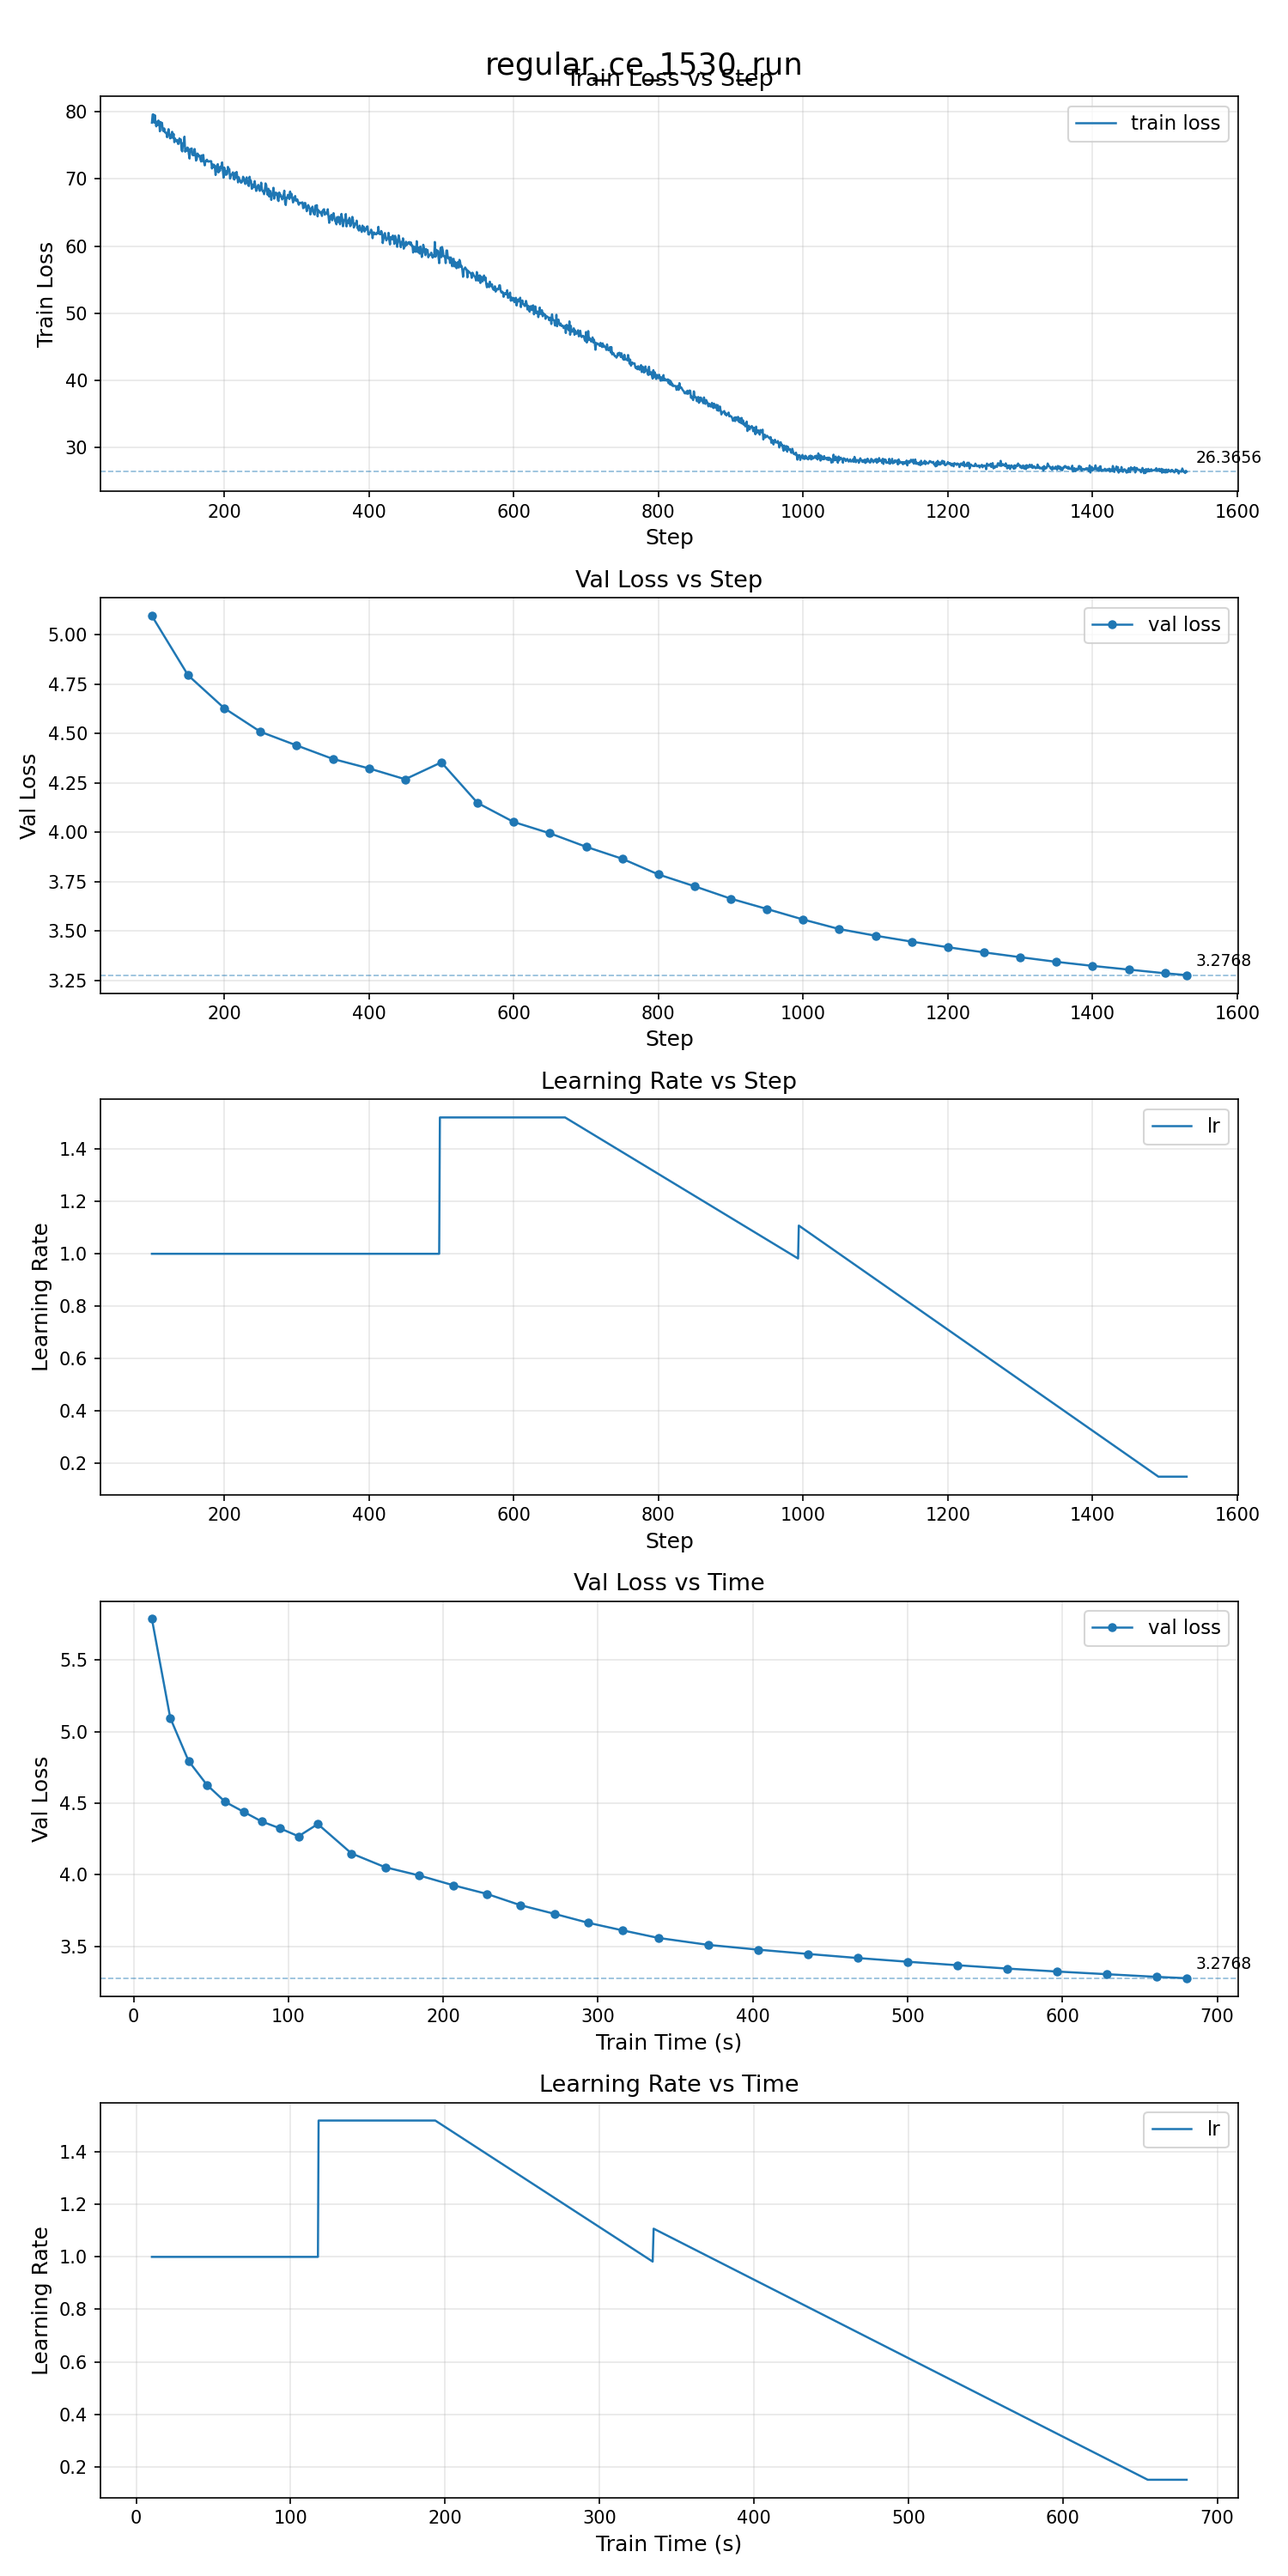
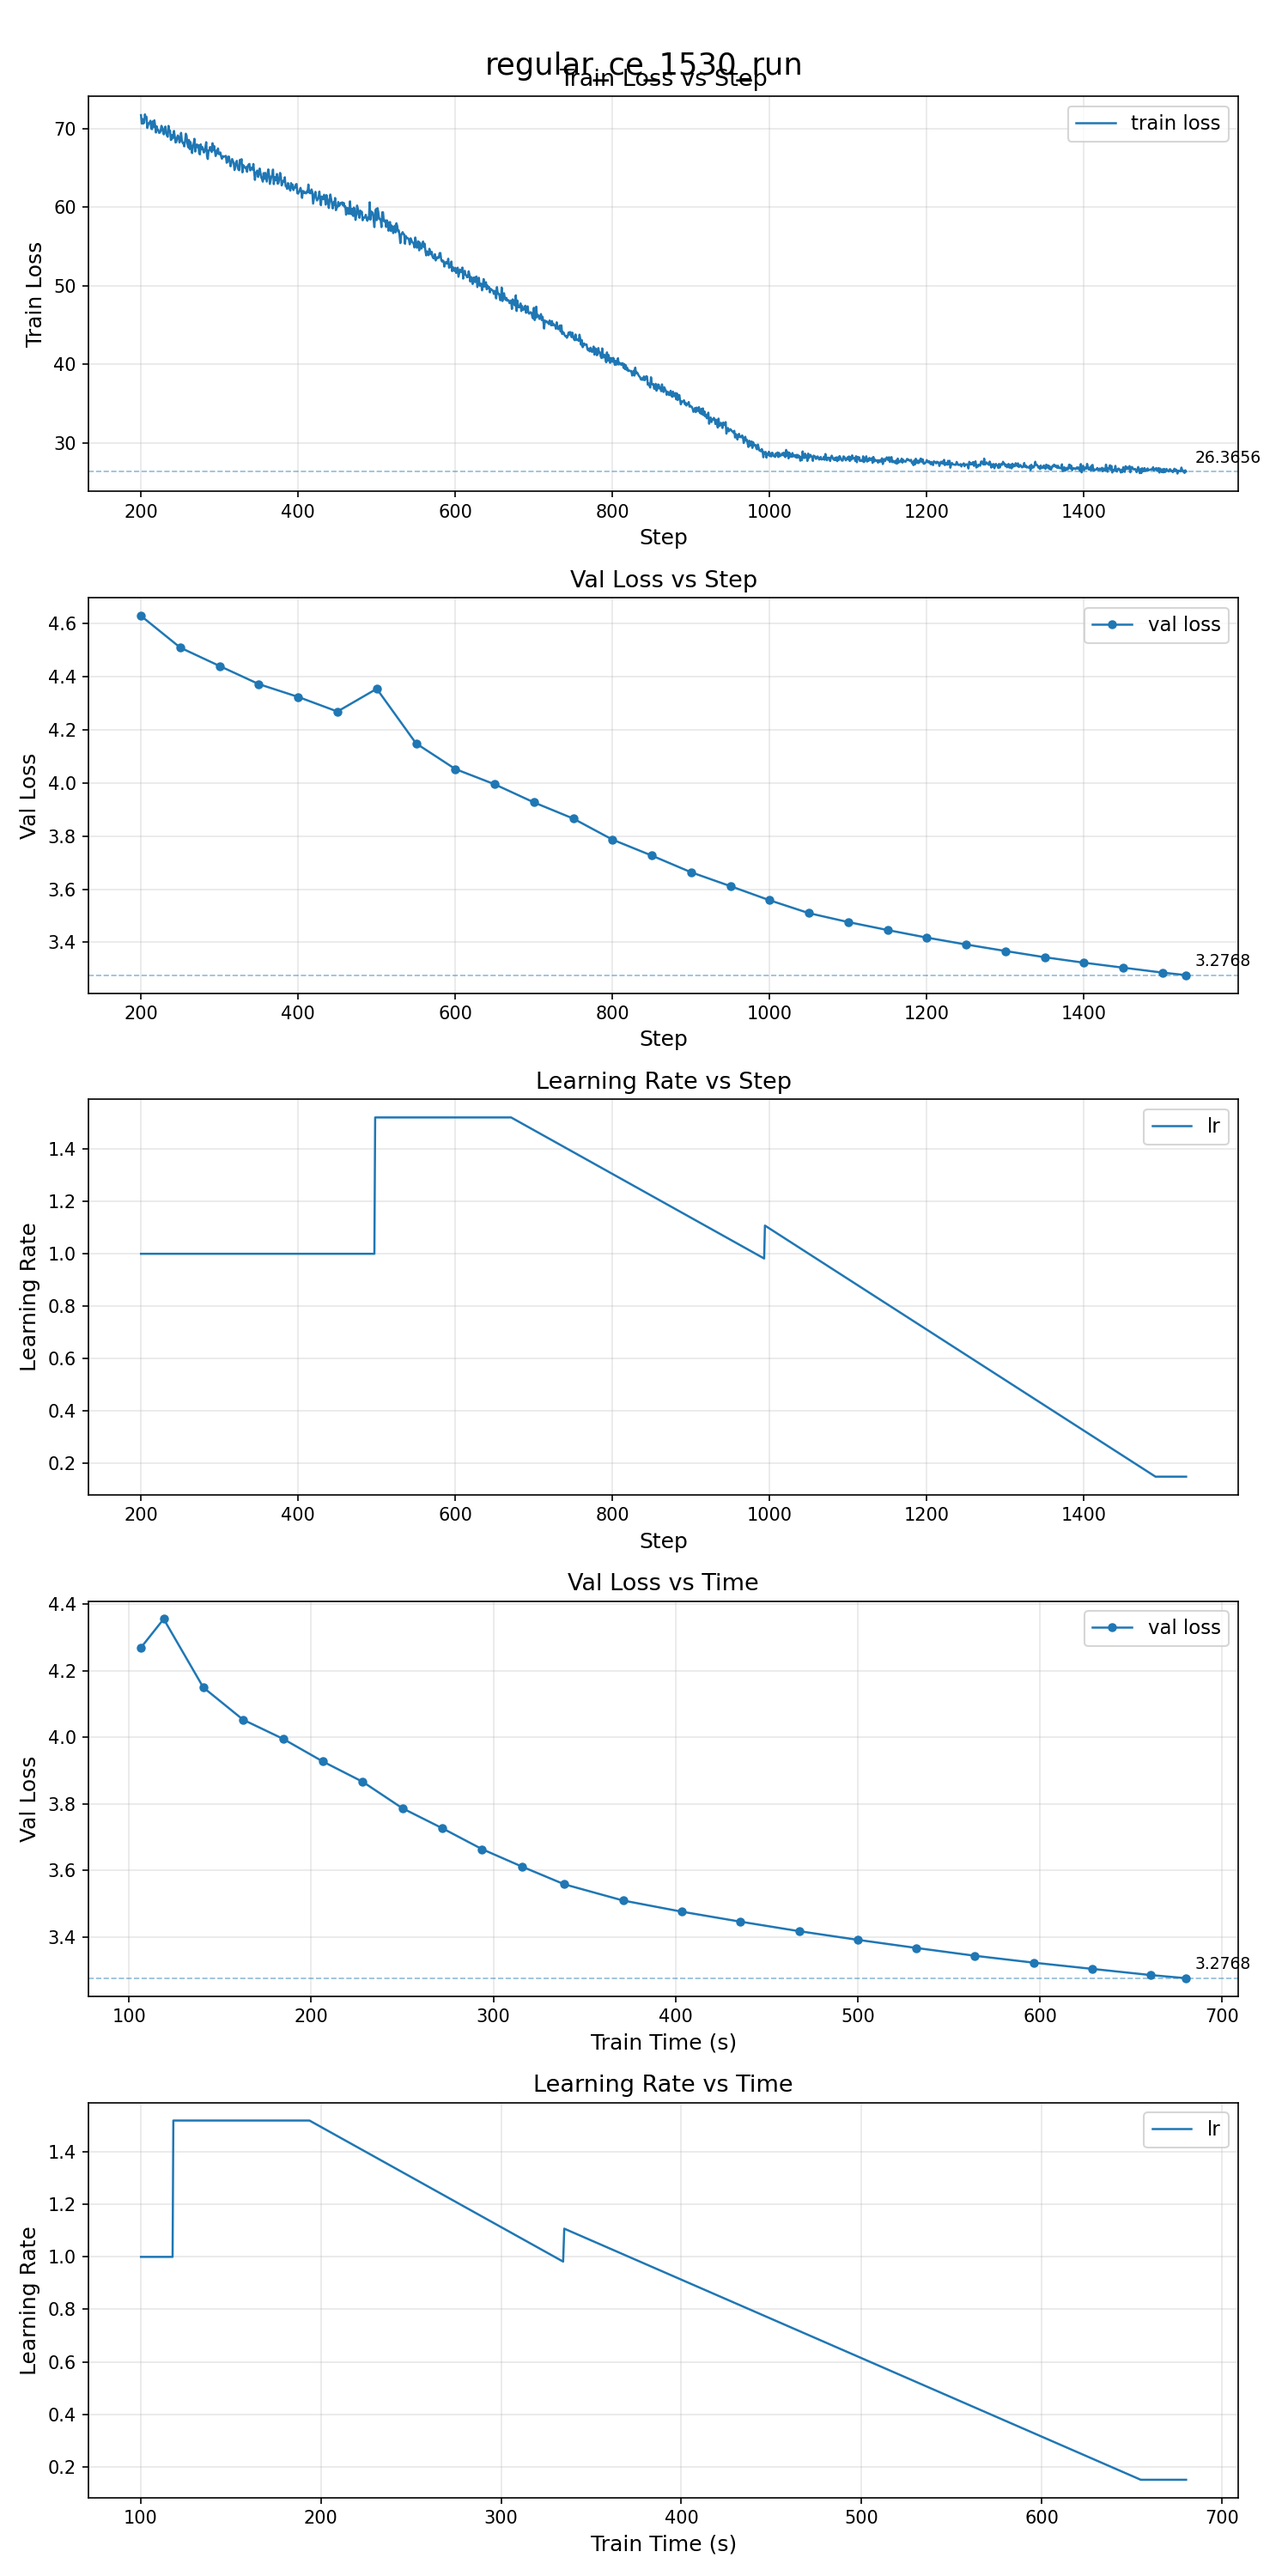
fancier extension phase

diff --git a/utils/plot_logs.py b/utils/plot_logs.py
@@ -21,29 +21,37 @@ def parse_log(path):
                 continue
 
             # Val line: step:N/M val_loss:V train_time:Xms step_avg:Yms
-            m = re.match(r"step:(\d+)/\d+ val_loss:([\d.]+) train_time:(\d+)ms", line)
+            m = re.match(r"step:(\d+)/\d+ val_loss:([\d.]+) train_time:([\d.]+)ms", line)
             if m:
                 val_steps.append(int(m.group(1)))
                 val_losses.append(float(m.group(2)))
-                val_times_s.append(int(m.group(3)) / 1000)
+                val_times_s.append(float(m.group(3)) / 1000)
                 continue
 
             # Train line: step:N/M, train_time:Xms, step_avg:Yms, train loss:Z,  lr:W
-            m = re.match(r"step:(\d+)/\d+, train_time:(\d+)ms,.* train loss:([\d.]+),\s+lr:([\d.]+)", line)
+            m = re.match(r"step:(\d+)/\d+, train_time:([\d.]+)ms,.* train loss:([\d.]+),\s+lr:([\d.]+)", line)
             if m:
                 train_steps.append(int(m.group(1)))
-                train_times_s.append(int(m.group(2)) / 1000)
+                train_times_s.append(float(m.group(2)) / 1000)
                 train_losses.append(float(m.group(3)))
                 train_lrs.append(float(m.group(4)))
                 continue
 
             # Train line without train loss: step:N/M, train_time:Xms, step_avg:Yms, lr:W
-            m = re.match(r"step:(\d+)/\d+, train_time:(\d+)ms,.*lr:([\d.]+)", line)
+            m = re.match(r"step:(\d+)/\d+, train_time:([\d.]+)ms,.*lr:([\d.]+)", line)
             if m:
                 train_steps.append(int(m.group(1)))
-                train_times_s.append(int(m.group(2)) / 1000)
+                train_times_s.append(float(m.group(2)) / 1000)
                 train_losses.append(None)
                 train_lrs.append(float(m.group(3)))
+
+    # Detect if train_time values are actually seconds mislabeled as ms
+    # Real ms values are in the thousands+ (e.g. 385962), mislabeled ones are in the hundreds (e.g. 269.3)
+    all_times = train_times_s + val_times_s
+    if all_times and max(all_times) < 1:
+        # Values are already in seconds, undo the /1000
+        train_times_s = [t * 1000 for t in train_times_s]
+        val_times_s = [t * 1000 for t in val_times_s]
 
     # Filter out None losses
     filtered_steps = [s for s, l in zip(train_steps, train_losses) if l is not None]

diff --git a/src/s07_schedule.py b/src/s07_schedule.py
@@ -21,7 +21,7 @@ class Hyperparameters:
     val_batch_size: int = 4 * 64 * 1024 * 8
     # schedule
     num_scheduled_iterations: int = 1020  # number of steps to complete lr and ws schedule
-    num_extension_iterations: int = 510  # number of steps to continue training at final lr and ws
+    num_extension_iterations: int = 200  # number of steps to continue training at final lr and ws
     # evaluation and logging
     run_id: str = f"{uuid.uuid4()}"
     val_loss_every: int = 50  # every how many steps to evaluate val loss? 0 for only at the end
@@ -105,9 +105,11 @@ class TrainingSchedule:
             t = (step - s3_start) / (s3_end - s3_start)
             return self._stage3_start_lr * (1 - t) + stage.lr_floor * t
 
-        # Extension: flat at floor
-        if step >= s3_end:
-            return self.stages[-1].lr_floor
+        # Extension: linear from lr_mul to lr_floor
+        ext_start, ext_end = self.boundaries[3]
+        if step >= ext_start:
+            t = (step - ext_start) / (ext_end - ext_start)
+            return self.stages[-1].lr_mul * (1 - t) + self.stages[-1].lr_floor * t
 
         # Stages 0 & 1: original cooldown behavior
         lr = stage.lr_mul
@@ -126,7 +128,7 @@ TRAINING_STAGES = [
     TrainingStage(duration=1/3, train_max_seq_len=2048, batch_size=24 * 2048 * 8, window_sizes=(5, 11), lr_mul=1.73, lr_floor=0.30,  # (24/8)**0.5
                   mtp_weights_start=[1.0], mtp_weights_end=[1.0]),
     # extension stage
-    TrainingStage(train_max_seq_len=2048, batch_size=24 * 2048 * 8, window_sizes=(6, 13), lr_mul=1.0,  # lr_mul is not used
+    TrainingStage(train_max_seq_len=2048, batch_size=24 * 2048 * 8, window_sizes=(6, 13), lr_mul=0.6, lr_floor=0.12,
                   mtp_weights_start=[1.0], mtp_weights_end=[1.0]),
 ]
 

diff --git a/utils/plot_lr_schedule.py b/utils/plot_lr_schedule.py
@@ -17,11 +17,11 @@ STAGES = [
     Stage(duration=1/3, lr_mul=1.0, lr_floor=0.15),
     Stage(duration=1/3, lr_mul=1.52, lr_floor=0.15),
     Stage(duration=1/3, lr_mul=1.73, lr_floor=0.30),
-    Stage(duration=None, lr_mul=1.0, lr_floor=0.15),  # extension
+    Stage(duration=None, lr_mul=0.6, lr_floor=0.12),  # extension
 ]
 
 SCHEDULED_ITERATIONS = 1020
-EXTENSION_ITERATIONS = 510
+EXTENSION_ITERATIONS = 200
 COOLDOWN_FRAC = 0.55
 
 TOTAL_STEPS = SCHEDULED_ITERATIONS + EXTENSION_ITERATIONS
@@ -63,8 +63,10 @@ def get_lr(step):
         start, end = boundaries[2]
         t = (step - start) / (end - start)
         return STAGE3_START_LR * (1 - t) + STAGE3_END_LR * t
-    # Extension: flat at floor
-    return STAGES[3].lr_floor
+    # Extension: linear from lr_mul to lr_floor
+    start, end = boundaries[3]
+    t = (step - start) / (end - start)
+    return STAGES[3].lr_mul * (1 - t) + STAGES[3].lr_floor * t
 
 
 steps = list(range(TOTAL_STEPS + 1))

diff --git a/train_gpt.py b/train_gpt.py
@@ -196,7 +196,7 @@ def main():
 
         # logging
         approx_training_time_ms = training_time_ms + 1000 * (time.perf_counter() - t0)
-        print0(f"step:{step+1}/{train_steps}, train_time:{approx_training_time_ms/1000:.1f}ms, step_avg:{approx_training_time_ms/(step + 1):.2f}ms, train loss:{train_loss:.2f},  lr:{training_schedule.get_lr(step):.2f}", console=True)
+        print0(f"step:{step+1}/{train_steps}, train_time:{approx_training_time_ms/1000:.1f} secs, step_avg:{approx_training_time_ms/(step + 1):.2f}ms, train loss:{train_loss:.2f},  lr:{training_schedule.get_lr(step):.2f}", console=True)
 
     print0(f"peak memory allocated: {torch.cuda.max_memory_allocated() // 1024 // 1024} MiB "
            f"reserved: {torch.cuda.max_memory_reserved() // 1024 // 1024} MiB", console=True)
